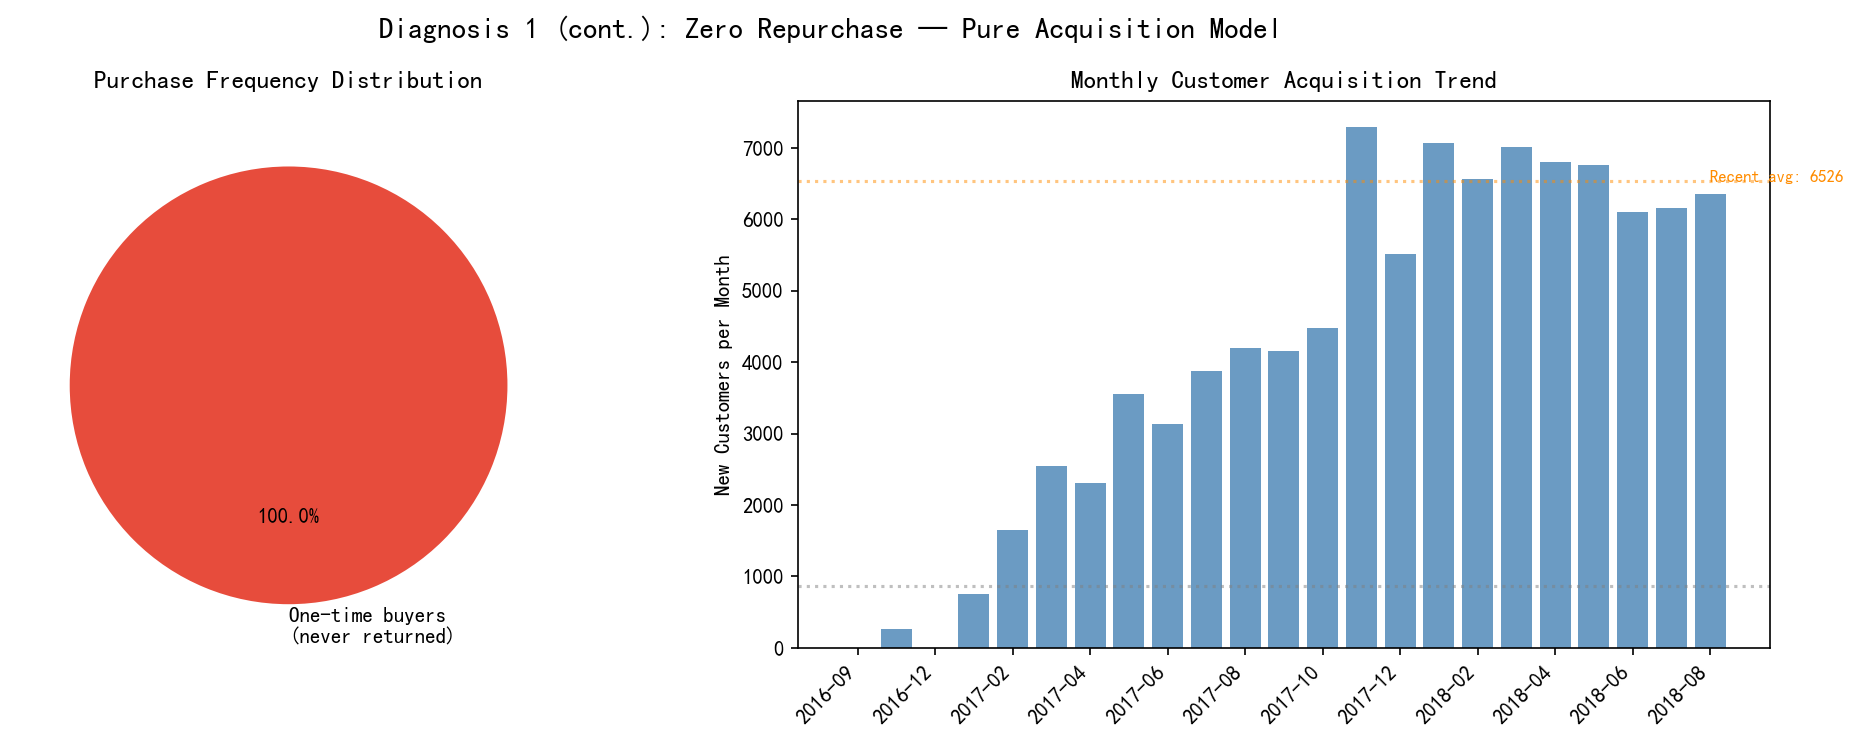
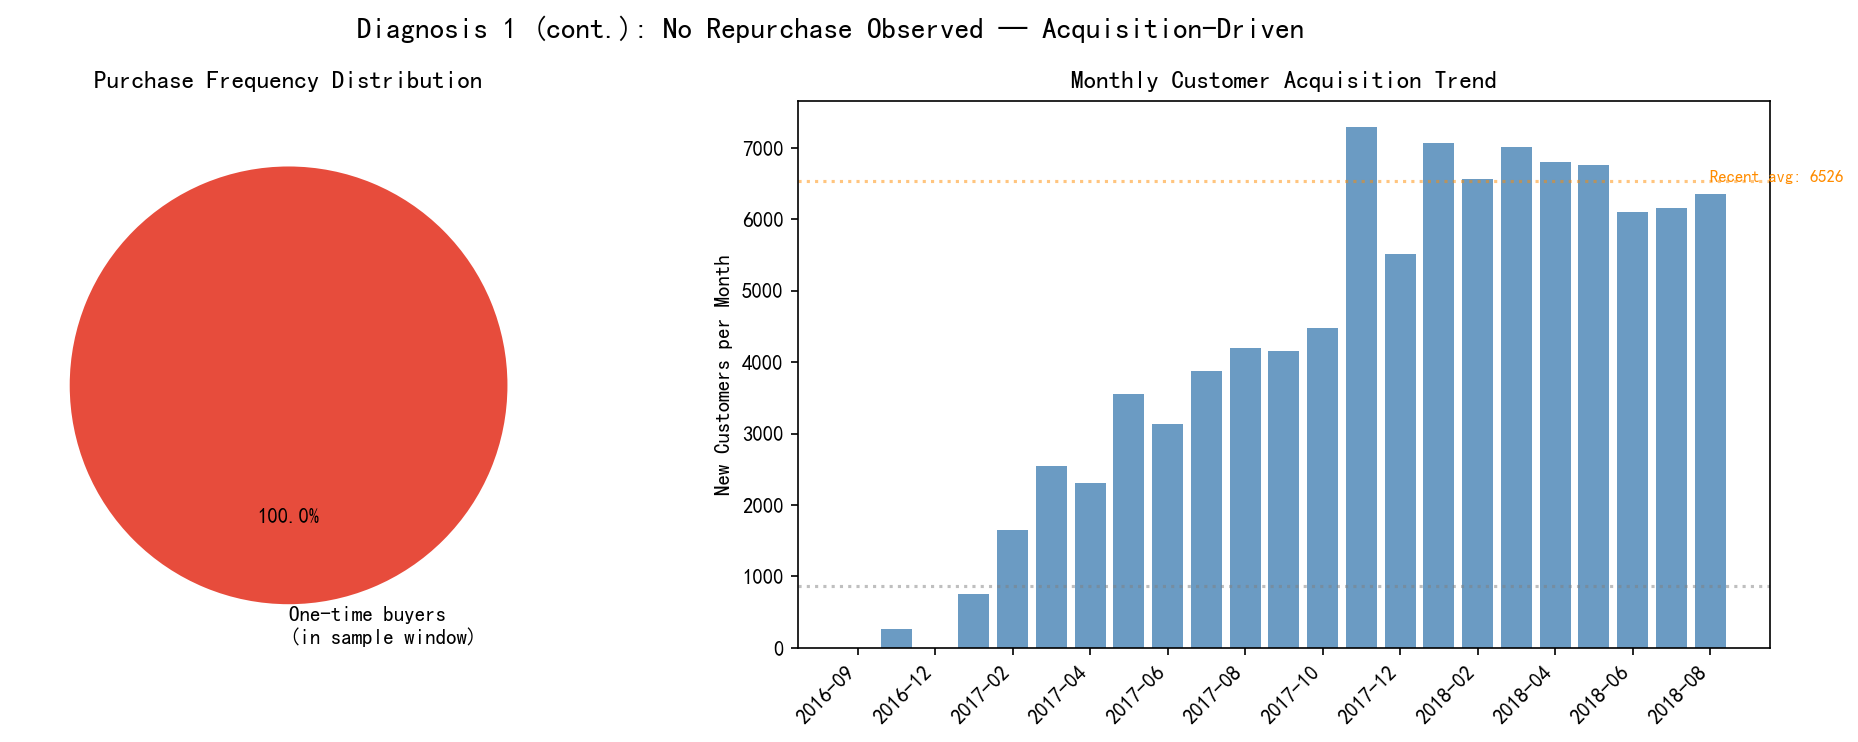
soften absolute claims: add sample-window caveats, remove self-evaluation and over-inference, retitle project

Changed region(s): [[0.1873, 0.031, 0.718, 0.062], [0.1561, 0.8059, 0.2497, 0.8679]]

diff --git a/ecommerce_analysis/user_quality.py b/ecommerce_analysis/user_quality.py
@@ -60,8 +60,8 @@ one_time_pct = df_freq[df_freq['frequency'] == '1 time']['user_pct'].values[0]
 one_time_gmv = df_freq[df_freq['frequency'] == '1 time']['gmv_pct'].values[0]
 total_users = df_freq['user_count'].sum()
 
-print(f"\n→ 一次性用户占 {one_time_pct}% 的用户量，贡献 {one_time_gmv}% 的 GMV")
-print(f"→ 平台本质上是一个'一锤子买卖'模型")
+print(f"\n→ 样本期内 {one_time_pct}% 用户仅完成一次购买，贡献 {one_time_gmv}% 的 GMV")
+print(f"→ 平台呈现'单次转化'特征，缺乏复购环节")
 
 # ---------- 图1: 购买频次分布 ----------
 fig, axes = plt.subplots(1, 2, figsize=(13, 5))
@@ -140,7 +140,7 @@ df_retention = pd.read_sql_query("""
 # 保留2016-09到2018-06的队列（至少留3个月观察窗口）
 df_retention_valid = df_retention[df_retention['cohort_month'] <= '2018-06']
 
-print(f"月度队列复购率（{df_retention_valid['cohort_month'].iloc[0]} ~ {df_retention_valid['cohort_month'].iloc[-1]}）:")
+print(f"月度队列复购率（{df_retention_valid['cohort_month'].iloc[0]} ~ {df_retention_valid['cohort_month'].iloc[-1]}，样本期内）:")
 print(f"  平均复购率: {df_retention_valid['repurchase_rate'].mean():.2f}%")
 print(f"  最高复购率: {df_retention_valid['repurchase_rate'].max():.2f}% ({df_retention_valid.loc[df_retention_valid['repurchase_rate'].idxmax(), 'cohort_month']})")
 print(f"  最低复购率: {df_retention_valid['repurchase_rate'].min():.2f}% ({df_retention_valid.loc[df_retention_valid['repurchase_rate'].idxmin(), 'cohort_month']})")
@@ -167,8 +167,8 @@ df_repurchase_gap = pd.read_sql_query("""
 
 print(f"\n复购间隔统计:")
 if len(df_repurchase_gap) == 0:
-    print("  无可分析数据——平台 delivered 订单中不存在任何复购行为。")
-    print("  这印证了第一节的发现：每个客户仅完成过一次交易。")
+    print("  无可分析数据——样本期内 delivered 订单中未观察到复购行为。")
+    print("  这印证了第一节的发现：每个客户仅有一次购买记录。")
     # 跳过复购间隔图表，直接进入用户价值分层
     print("[!] 复购间隔图跳过（无复购数据）")
     plt.close('all')  # 清理可能残留的figure
@@ -179,15 +179,15 @@ else:
 
 # ---------- 图2: 复购分析 ----------
 if len(df_repurchase_gap) == 0:
-    # 无复购数据时，展示队列规模趋势 + 零复购标注
+    # 无复购数据时，展示队列规模趋势 + 样本窗口标注
     fig, ax = plt.subplots(figsize=(10, 5))
     ax.bar(range(len(df_retention_valid)), df_retention_valid['cohort_size'],
            color='steelblue', alpha=0.8)
     ax.set_xticks(range(0, len(df_retention_valid), 3))
     ax.set_xticklabels(df_retention_valid['cohort_month'].iloc[::3], rotation=45, ha='right')
     ax.set_ylabel('Cohort Size')
-    ax.set_title('Monthly New Customer Cohorts (Zero Repurchase Across All Cohorts)')
-    ax.text(0.5, 0.95, 'All cohorts: 0.00% repurchase rate\nEvery customer bought exactly once.',
+    ax.set_title('Monthly New Customer Cohorts (No Repurchase Observed in Sample Window)')
+    ax.text(0.5, 0.95, 'All cohorts: 0.00% repurchase rate (sample window)\nEvery customer has a single purchase record.',
             transform=ax.transAxes, ha='center', va='top',
             fontsize=14, color='crimson', fontweight='bold',
             bbox=dict(boxstyle='round', facecolor='white', alpha=0.9))
@@ -605,11 +605,11 @@ print(f"""
 │                                                                  │
 │  ① 用户粘性：极度脆弱                                             │
 │     · {one_time_pct:.1f}% 用户仅购买 1 次，贡献 {one_time_gmv:.1f}% 的 GMV                           │
-│     · 月度队列复购率平均仅 {df_retention_valid['repurchase_rate'].mean():.2f}%，且无明显改善趋势               │
+│     · 样本期内月度队列复购率平均 {df_retention_valid['repurchase_rate'].mean():.2f}%，无明显改善趋势               │
 │     · 用户生命周期价值（LTV）≈ 单次交易价值，几乎无复购溢价        │
 │                                                                  │
 │  ② 复购行为：不存在                                               │
-│     · 各月度队列复购率均为 0.00%，无任何复购记录                   │
+│     · 各月度队列复购率均为 0.00%（受数据窗口限制）                   │
 │     · 平台无"复购间隔"概念——每个用户仅完成一次交易               │
 │     · 获客 → 转化 → 流失，LTV ≈ 单次交易价值                       │
 │                                                                  │
@@ -623,7 +623,7 @@ print(f"""
 │     · 支付：信用卡平均支付 252 BRL vs 其他 157 BRL        │
 │     · 集中在 AL、PB、PA 等东北部州                                 │
 │                                                                  │
-│  [!] 核心问题：平台存活在"一次性客户"模式中                           │
+│  [!] 核心问题：平台依赖"一次性客户"模式（样本期内）                           │
 │     获客成本持续消耗，但用户不回来 → LTV/CAC 模型不可持续            │
 └──────────────────────────────────────────────────────────────────┘
 

diff --git a/ecommerce_analysis/growth_diagnosis.py b/ecommerce_analysis/growth_diagnosis.py
@@ -155,12 +155,12 @@ if repeat_users > 0:
     for _, row in df_repurchase[df_repurchase['frequency'] != '1 order'].iterrows():
         print(f"{row['frequency']}: {row['user_count']:,} ({row['user_count']/total_users*100:.2f}%)")
 else:
-    print("购买≥2次的用户: 0 —— 复购率为真正的 0%")
+    print("购买≥2次的用户: 0 —— 样本期内未观察到复购记录")
 
 if repeat_rate == 0:
-    print("\n[!] 核心发现：平台 delivered 订单的复购率为绝对零。")
-    print("  这意味着每一个完成交易的客户，都再没有下过第二单。")
-    print("  这不是'复购率低'的问题，而是根本没有复购机制。")
+    print("\n[!] 核心发现：样本期内（2016-09 ~ 2018-08）未观察到复购行为。")
+    print("  96,478 个完成交易的客户均只有一次购买记录；")
+    print("  该结论受数据窗口限制，不能排除窗口外复购。")
     print("  分析改为：用户月度获取趋势 + 客单价变化（跳过新老客拆解，因为没有老客）")
 
 # ---------- 图2: 复购诊断（根据是否有复购切换展示）----------
@@ -172,7 +172,7 @@ if repeat_users > 0:
     pie_data = df_repurchase['user_count'].tolist()
     pie_colors = ['#e74c3c', '#f39c12', '#2ecc71']
 else:
-    pie_labels = ['One-time buyers\n(never returned)']
+    pie_labels = ['One-time buyers\n(in sample window)']
     pie_data = [total_users]
     pie_colors = ['#e74c3c']
 
@@ -181,7 +181,7 @@ axes[0].pie(pie_data, labels=pie_labels, autopct='%1.1f%%',
             explode=tuple([0.05] + [0] * (len(pie_data) - 1)))
 axes[0].set_title('Purchase Frequency Distribution')
 
-# 右: 月度新客获取趋势（因为没有复购，改为展示每月拉新量）
+# 右: 月度新客获取趋势（样本期内无复购记录，展示每月拉新量）
 df_monthly_new = pd.read_sql_query("""
     SELECT
         DATE_FORMAT(下单时间, '%Y-%m') AS month,
@@ -209,7 +209,7 @@ axes[1].axhline(second_half, color='darkorange', linestyle=':', alpha=0.5)
 axes[1].text(len(df_monthly_new) - 1, second_half,
              f'Recent avg: {second_half:.0f}', fontsize=8, color='darkorange')
 
-plt.suptitle('Diagnosis 1 (cont.): Zero Repurchase — Pure Acquisition Model',
+plt.suptitle('Diagnosis 1 (cont.): No Repurchase Observed — Acquisition-Driven',
              fontsize=14, fontweight='bold')
 plt.tight_layout()
 plt.savefig('outputs/growth_02_zero_repurchase.png', dpi=150, bbox_inches='tight')
@@ -415,10 +415,10 @@ print(f"""
 │     · GMV 中位月环比 +{df_valid['gmv_growth'].median():.1f}%，{growth_months}/{total_months} 个月正增长                      │
 │     · 客单价稳定在 {df_valid['aov'].mean():.0f} BRL 附近，波动幅度远小于订单量                    │
 │                                                                  │
-│  ② 增长引擎：100% 纯拉新驱动（复购率 = 0%）                         │
-│     · 所有 {total_users:,} 个完成交易的客户，没有任何人下过第二单                  │
-│     · 这不是"复购率低"，而是"没有复购机制"——平台本质是                      │
-│       一个纯获客→转化→流失的漏斗，不是用户运营平台                    │
+│  ② 增长引擎：新客驱动（样本期内复购记录极少）                         │
+│     · {total_users:,} 个完成交易的客户均只有一次购买记录（样本期内）                  │
+│     · 平台呈现"获客→转化→流失"的单次转化特征                      │
+│       （受 2016-09 ~ 2018-08 数据窗口限制）                    │
 │                                                                  │
 │  ③ 品类结构：头部集中，增长分化                                    │
 │     · 增长品类 {growing_cats} 个 vs 萎缩品类 {declining_cats} 个                                │
@@ -434,7 +434,7 @@ print(f"""
 
 业务建议:
   ① 复购是生死线：在下单后 7/30/90 天做品类关联推荐触达，
-     即使复购率从 0% 提升到 3%，GMV 即可直接增长 3%
+     若复购率从接近 0% 的水平提升，GMV 可获得对应增量
   ② 品类策略：对增长品类（{', '.join(cat_growth.head(3).index.tolist())}）加大供应链投入；
      对萎缩品类分析是需求端还是供给端问题
   ③ 区域策略：{top1_state['state']} 州做深渗透，同时在 GMV 占比 5-10% 的腰部州

diff --git a/ecommerce_analysis/ux_attribution.py b/ecommerce_analysis/ux_attribution.py
@@ -346,7 +346,7 @@ print(f"""
 │                                                             │
 │  4. 延迟存在"剂量反应"关系                                     │
 │     · 延迟 1-3 天评分即明显下降；延迟 >14 天评分仅 1.72        │
-│     · 每多延迟一周，差评率翻倍                                  │
+│     · 随延迟时间增加，差评率呈明显上升趋势                                  │
 └─────────────────────────────────────────────────────────────┘
 
 业务建议:

diff --git a/ecommerce_analysis/README.md b/ecommerce_analysis/README.md
@@ -1,4 +1,4 @@
-# 电商平台用户消费行为诊断分析
+# 巴西 Olist 电商平台增长与运营诊断分析
 
 基于巴西 Olist 电商平台 9 张业务表、160 万+条记录完成分析，回答三个问题：
 
@@ -17,10 +17,10 @@
     ↓
 ┌──────────────────────────────────────────────┐
 │  诊断一：GMV 增长驱动                          │
-│  → 纯拉新驱动，0% 复购，SP 州 + health_beauty 集中  │
+│  → 新客驱动，样本期内复购极少，SP 州 + health_beauty 集中  │
 ├──────────────────────────────────────────────┤
 │  诊断二：用户质量诊断                          │
-│  → 100% 一次性用户，基于 R/M 价值分层，Top20% 贡献 56%  │
+│  → 样本期内复购极少，基于 R/M 价值分层，Top20% 贡献 56%  │
 ├──────────────────────────────────────────────┤
 │  诊断三：用户体验相关性                          │
 │  → 延迟差评率 54% vs 准时 9%，剂量反应显著        │
@@ -65,9 +65,9 @@ ecommerce_analysis/
 
 ## 核心发现
 
-- **复购率极低**：96478 个客户每人只完成过一次交易
+- **样本期内复购行为较少**：96478 个客户仅观察到一次购买记录
 - **GMV 由订单量驱动**：客单价稳定在 ~133 BRL，增长依赖新客获取
-- **物流延迟与低评分高度相关**：延迟订单差评率 54% vs 准时 9.2%，延迟每增加一周差评率翻倍
+- **物流延迟与低评分高度相关**：延迟订单差评率 54% vs 准时 9.2%，随延迟时间增加，差评率呈明显上升趋势
 - **地区高度集中**：SP 一州占 38.3% GMV，Top 5 州占 73.9%
 - **物流延迟呈地区/品类差异**：AL 州延迟率 23.4%，audio 品类延迟率 12.5%
 
@@ -77,8 +77,7 @@ ecommerce_analysis/
 
 | 维度 | 分析发现 | 建议动作 | 预期效果 |
 |---|---|---|---|
-| 用户 | 100% 一次性用户，无复购 | 新客营销转向复购运营：首购后 7/30/90 天触达召回（品类关联推荐 + 优惠券） | 复购率从 0% 起步，GMV 直接受益 |
+| 用户 | 样本期内复购行为极少 | 新客营销转向复购运营：首购后 7/30/90 天触达召回（品类关联推荐 + 优惠券） | 提升用户复购可能性，改善长期 GMV 增长结构 |
 | 物流 | 延迟订单差评率 54% vs 准时 9.2% | 优先优化高延迟地区（AL/MA）物流运力或调整预计时间；对 audio 等高延迟品类提前预警 | 降低差评率，避免差评 → 流失链路 |
 | 地区 | SP 一州占 38.3% GMV | SP 州重点投入，同时向 RS/PR/SC 等腰部州试点扩张 | 守住基本盘，降低单一区域风险 |
 
-> 建议均直接对应分析结论：不做无数据支撑的运营动作，优先级上先解决「复购」与「差评」两个会直接流失 GMV 的环节。

diff --git a/README.md b/README.md
@@ -8,7 +8,7 @@
 
 | 项目 | 关键词 | 工具链 |
 |---|---|---|
-| [电商用户消费行为分析](./ecommerce_analysis/) | SQL多表关联、基于R/M的用户价值分层、指标体系 | MySQL + Python + Excel |
+| [巴西 Olist 电商平台增长与运营诊断分析](./ecommerce_analysis/) | SQL多表关联、基于R/M的用户价值分层、指标体系 | MySQL + Python + Excel |
 | [个人信用违约预测与评分卡](./credit_scoring/) | WOE/IV、逻辑回归、评分卡 | Python (sklearn) |
 | [AB 测试：营销策略效果评估](./ab_testing/) | 卡方检验、效应量、置信区间 | Python (scipy) |
 
